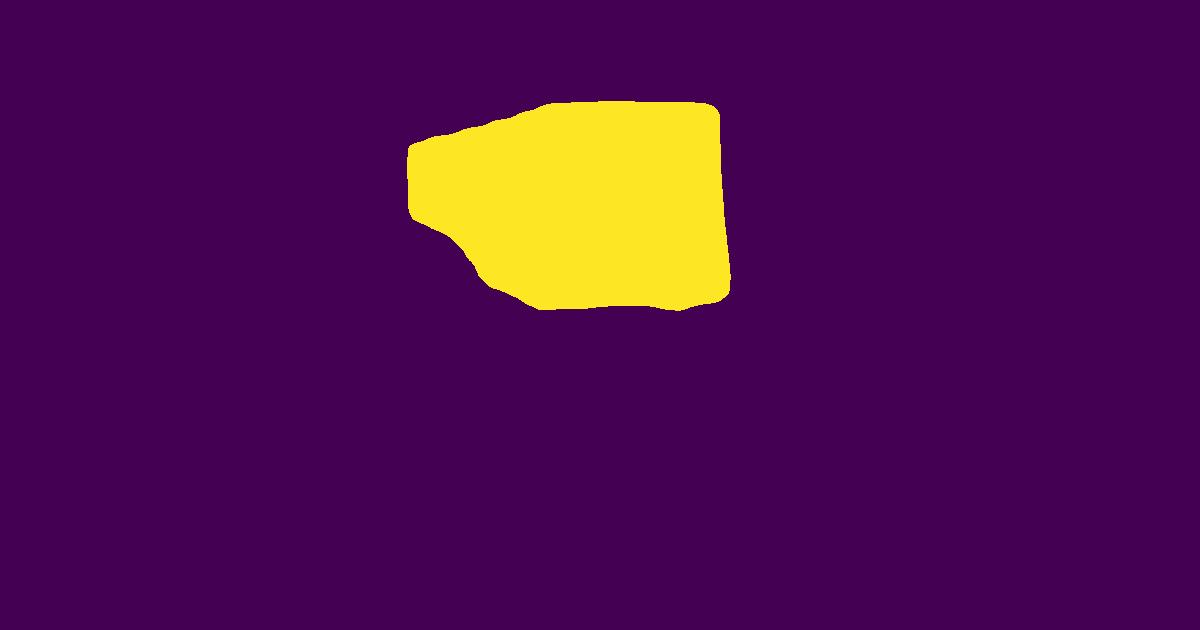
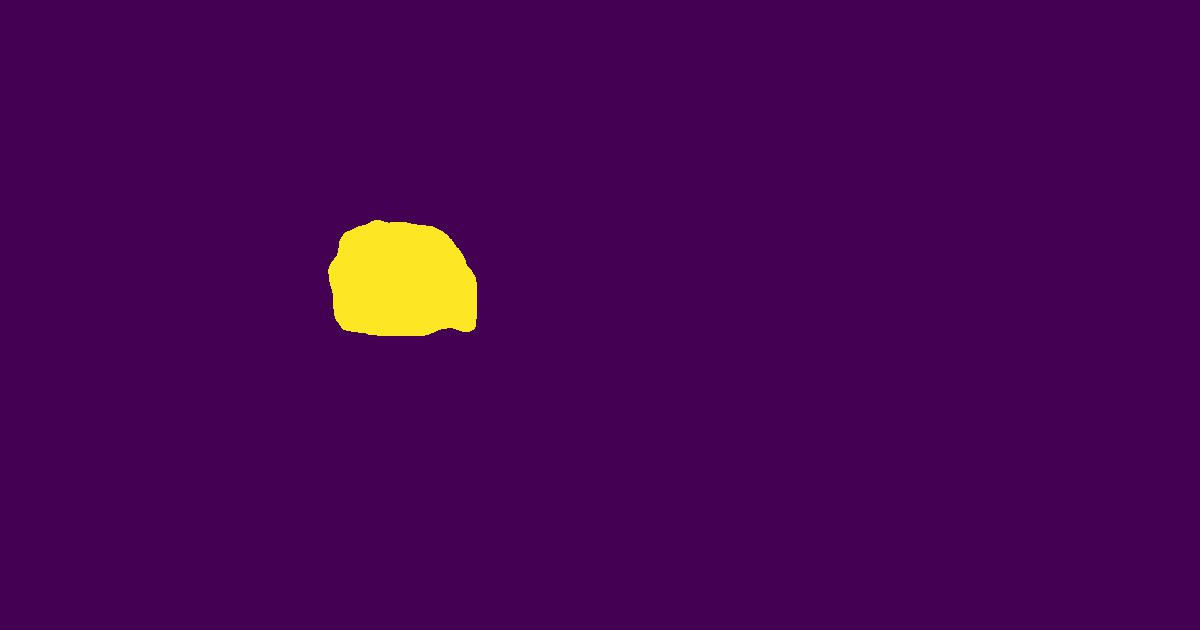
polygon integration

Changed region(s): [[0.2467, 0.1508, 0.6167, 0.5429]]

diff --git a/server/static/scripts/script.js b/server/static/scripts/script.js
@@ -135,7 +135,9 @@ class AppController {
         && mouseY >= rect.y1 && mouseY <= rect.y2) {
           // switch to polygon mode
           this.appState.annotationMode = 'contour';
-          this.draw();
+
+          // get object boundary
+          this.getObjectBoundary(this.appState.filename, this.appState.rect, this.appState.objectClass);
       }
     }
 
@@ -164,8 +166,11 @@ class AppController {
     return canvas.getContext('2d');
   }
 
-  getBoundingBox(ctx, filename) {
+  getBoundingBox(filename) {
     console.log(filename);
+
+    this.appState.filename = filename;
+
     var that = this;
     getBoundingBoxes(filename).then(
       function(resp) {
@@ -184,10 +189,43 @@ class AppController {
     rect.y1 = resp.bounding_box[0][1];
     rect.x2 = resp.bounding_box[0][2];
     rect.y2 = resp.bounding_box[0][3];
-
     console.log(rect);
 
+    this.appState.objectClass = resp.classes[0];
+
     this.appState.annotationMode = 'bounding-box';
+
+    this.draw();
+  }
+
+  getObjectBoundary(filename, boundingBox, objectClass) {
+    console.log(filename);
+
+    var that = this;
+    getObjectBoundaries(filename, boundingBox, objectClass).then(
+      function(resp) {
+          that.getObjectBoundaryCallback(resp);
+      },
+      function(error) {
+          console.log("Error: ", error);
+      });
+  }
+
+  getObjectBoundaryCallback(resp) {
+    console.log(resp);
+
+    var points = [];
+
+    resp.simple_mask_polygon.forEach((p) => {
+      var point = {
+        x: p[0],
+        y: p[1]
+      }
+      points.push(point);
+    });
+
+    console.log(points);
+    this.appState.poly.points = points;
 
     this.draw();
   }
@@ -234,9 +272,9 @@ class CanvasUtil {
     // draw polygon
     ctx.beginPath();  // need this for clearRect to work
 
-    ctx.moveTo(poly.points[0].x,poly.points[0].y);
+    ctx.moveTo(poly.points[0].x, poly.points[0].y);
     for (var i = 0; i < poly.points.length; i++) {
-      ctx.lineTo(poly.points[i].x,poly.points[i].y);
+      ctx.lineTo(poly.points[i].x, poly.points[i].y);
     }
     ctx.lineTo(poly.points[0].x, poly.points[0].y);
 
@@ -297,6 +335,8 @@ class AppState {
   constructor() {
     this.isDown = false;
 
+    this.filename = '';
+
     // currently seelected point index of bounding box rectangle
     this.rectPointIndex = null;
 
@@ -305,6 +345,8 @@ class AppState {
 
     // size of control rectangle
     this.dotSize = 8;
+
+    this.objectClass = '';
 
     // bounding box rectangle
     this.rect = {
@@ -421,4 +463,24 @@ const getBoundingBoxes = async (filename) => {
     // extract JSON from the http response
     const resp = await response.json();
     return resp;
+};
+
+
+const getObjectBoundaries = async (filename, boundingBox, objectClass) => {
+  const response = await fetch('/get_object_boundary', {
+    method: 'POST',
+    body: `{
+      "image_id": "img1",
+      "image_file_name": "${filename}",
+      "bounding_box": [${boundingBox.x1}, ${boundingBox.y1}, ${boundingBox.x2}, ${boundingBox.y2}],
+      "class_of_interest": ${objectClass}
+    }`,
+    headers: {
+      'Content-Type': 'application/json'
+    }
+  });
+
+  // extract JSON from the http response
+  const resp = await response.json();
+  return resp;
 };

diff --git a/server/templates/index.html b/server/templates/index.html
@@ -68,7 +68,7 @@
             // draw image html element onto canvas, keep image original size
             ctx.drawImage(img, 0, 0);
 
-            appController.getBoundingBox(ctx, theFile.name);
+            appController.getBoundingBox(theFile.name);
           };
         };
       })(f);
